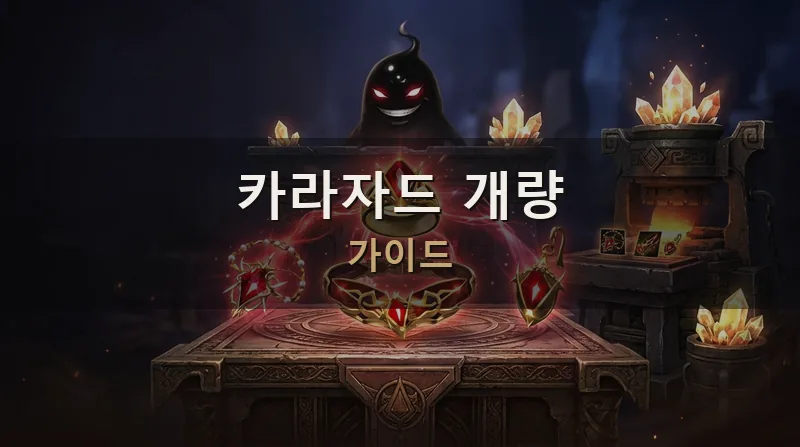
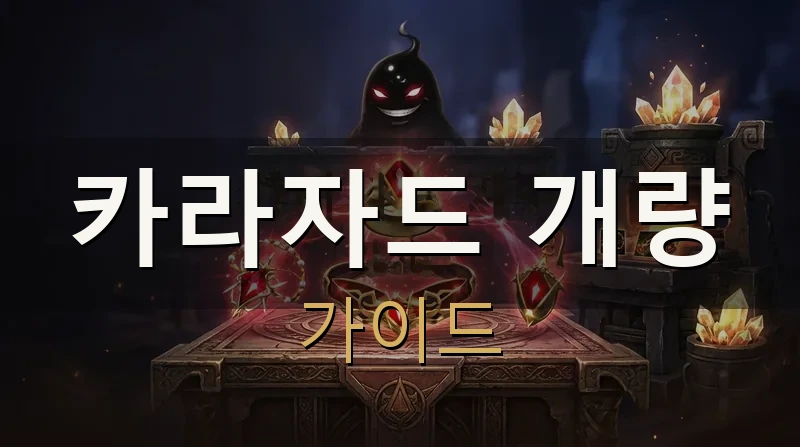
- 세 가이드 썸네일의 제목을 키워서 좌우 여백이 거의 같게 맞추고, 부제는 같은 비율로 키웠습니다.
| 이미지 | 제목 | 부제 | 제목 좌 / 우 여백 |
| --- | ---: | ---: | --- |
| 마가이아 신전 | 48 → 99 | 26 → 54 | 76 / 78 |
| 하이퍼 부스트 이후 | 46 → 72 | 26 → 41 | 73 / 72 |
| 카라자드 개량 가이드 | 51 → 105 | 34 → 70 | 73 / 71 |

부제는 제목보다 짧아서 가운데에 두고, 양쪽 여백이 서로 같게 맞췄습니다. 카라자드 이미지는 원래 글자를 지운 뒤 같은 자리에 다시 넣었습니다.

Changed region(s): [[0.0938, 0.3781, 0.9375, 0.6107], [0.375, 0.6689, 0.625, 0.8143]]

diff --git a/auto/script/generate-kharazad-reform-thumbnail.py b/auto/script/generate-kharazad-reform-thumbnail.py
@@ -1,0 +1,147 @@
+#!/usr/bin/env python3
+"""Redraw the Kharazad reform guide title so the line fills the card evenly."""
+
+from __future__ import annotations
+
+from pathlib import Path
+
+from PIL import Image, ImageDraw, ImageFont
+
+ROOT = Path(__file__).resolve().parents[2]
+SRC = Path(__file__).resolve().parent / "sources" / "kharazad-reform-guide-src.webp"
+OUT = ROOT / "assets" / "images" / "posts" / "kharazad-reform-guide.webp"
+SIDE = 64
+TITLE = "카라자드 개량"
+SUB = "가이드"
+# Previous overlay was about 51px title / 34px subtitle.
+SUB_RATIO = 34 / 51
+
+
+def font(size: int, bold: bool = False) -> ImageFont.ImageFont:
+    name = "malgunbd.ttf" if bold else "malgun.ttf"
+    path = Path("C:/Windows/Fonts") / name
+    if path.exists():
+        return ImageFont.truetype(str(path), size=size)
+    return ImageFont.load_default()
+
+
+def text_mask(src: Image.Image) -> Image.Image:
+    px = src.load()
+    w, h = src.size
+    mask = Image.new("L", src.size, 0)
+    mp = mask.load()
+    for y in range(155, 230):
+        for x in range(180, 640):
+            r, g, b = px[x, y]
+            if r > 200 and g > 185 and b > 165:
+                mp[x, y] = 255
+    for y in range(228, 280):
+        for x in range(330, 470):
+            r, g, b = px[x, y]
+            if r > 165 and g > 115 and b < 150 and r > b + 35:
+                mp[x, y] = 255
+    grown = Image.new("L", src.size, 0)
+    gp = grown.load()
+    for y in range(150, 290):
+        for x in range(170, 650):
+            if mp[x, y] == 0:
+                continue
+            for dy in range(-2, 3):
+                for dx in range(-2, 3):
+                    xx, yy = x + dx, y + dy
+                    if 0 <= xx < w and 0 <= yy < h:
+                        gp[xx, yy] = 255
+    return grown
+
+
+def inpaint(src: Image.Image, mask: Image.Image) -> Image.Image:
+    im = src.copy()
+    px = im.load()
+    mp = mask.load()
+    w, h = im.size
+    neighbors = ((1, 0), (-1, 0), (0, 1), (0, -1), (1, 1), (-1, 1), (1, -1), (-1, -1))
+    for _ in range(64):
+        border: list[tuple[int, int, list[tuple[int, int, int]]]] = []
+        for y in range(145, 295):
+            for x in range(165, 655):
+                if mp[x, y] == 0:
+                    continue
+                found = []
+                for dx, dy in neighbors:
+                    xx, yy = x + dx, y + dy
+                    if 0 <= xx < w and 0 <= yy < h and mp[xx, yy] == 0:
+                        found.append(px[xx, yy])
+                if found:
+                    border.append((x, y, found))
+        if not border:
+            break
+        for x, y, found in border:
+            n = len(found)
+            px[x, y] = (
+                sum(c[0] for c in found) // n,
+                sum(c[1] for c in found) // n,
+                sum(c[2] for c in found) // n,
+            )
+            mp[x, y] = 0
+    return im
+
+
+def ink(draw: ImageDraw.ImageDraw, text: str, face: ImageFont.ImageFont) -> tuple[int, int, int, int]:
+    box = draw.textbbox((0, 0), text, font=face)
+    return box[0], box[1], box[2] - box[0], box[3] - box[1]
+
+
+def fit(draw: ImageDraw.ImageDraw, width: int) -> tuple[ImageFont.ImageFont, ImageFont.ImageFont, int]:
+    max_w = width - 2 * SIDE
+    chosen = 36
+    for size in range(36, 160):
+        title_font = font(size, bold=True)
+        sub_font = font(max(18, round(size * SUB_RATIO)))
+        _, _, tw, th = ink(draw, TITLE, title_font)
+        _, _, sw, sh = ink(draw, SUB, sub_font)
+        gap = round(14 * size / 51)
+        if max(tw, sw) <= max_w and th + gap + sh <= 280:
+            chosen = size
+        else:
+            break
+    sub_size = max(18, round(chosen * SUB_RATIO))
+    return font(chosen, bold=True), font(sub_size), chosen
+
+
+def draw_line(
+    draw: ImageDraw.ImageDraw,
+    text: str,
+    face: ImageFont.ImageFont,
+    top: int,
+    fill: tuple[int, int, int, int],
+    width: int,
+) -> int:
+    ox, oy, tw, th = ink(draw, text, face)
+    x = (width - tw) // 2 - ox
+    y = top - oy
+    draw.text((x + 2, y + 3), text, font=face, fill=(0, 0, 0, 150))
+    draw.text((x, y), text, font=face, fill=fill)
+    return th
+
+
+def main() -> None:
+    src = Image.open(SRC).convert("RGB")
+    clean = inpaint(src, text_mask(src)).convert("RGBA")
+    draw = ImageDraw.Draw(clean)
+    width, height = clean.size
+    title_font, sub_font, size = fit(draw, width)
+    gap = round(14 * size / 51)
+    _, _, _, th = ink(draw, TITLE, title_font)
+    _, _, _, sh = ink(draw, SUB, sub_font)
+    # Keep the pair over the altar, where the old title sat.
+    top = 168
+    if top + th + gap + sh > height - 40:
+        top = height - 40 - (th + gap + sh)
+    draw_line(draw, TITLE, title_font, top, (248, 246, 240, 255), width)
+    draw_line(draw, SUB, sub_font, top + th + gap, (212, 176, 96, 255), width)
+    clean.convert("RGB").save(OUT, format="WEBP", quality=92, method=6)
+    print("Wrote", OUT, "title", size, "sub", max(18, round(size * SUB_RATIO)))
+
+
+if __name__ == "__main__":
+    main()

diff --git a/auto/script/generate-magaia-temple-thumbnail.py b/auto/script/generate-magaia-temple-thumbnail.py
@@ -3,38 +3,18 @@
 
 from __future__ import annotations
 
-import io
-import re
-import urllib.request
 from pathlib import Path
 
 from PIL import Image, ImageDraw, ImageFont
 
 ROOT = Path(__file__).resolve().parents[2]
 OUT_PATH = ROOT / "assets" / "images" / "posts" / "magaia-temple-prep-guide.webp"
-CODEX = "https://bdocodex.com"
-WIDTH, HEIGHT, PADDING = 760, 430, 72
-
-
-def fetch(url: str) -> bytes:
-    req = urllib.request.Request(url, headers={"User-Agent": "Mozilla/5.0"})
-    return urllib.request.urlopen(req, timeout=30).read()
-
-
-def find_icon() -> Image.Image | None:
-    html = fetch(f"{CODEX}/kr/search/?q=%EC%97%98%EB%A6%AC%EC%96%B8+%EC%B6%94%EC%A2%85%EC%9E%90%EC%9D%98+%ED%88%AC%EA%B5%AC").decode(
-        "utf-8", "ignore"
-    )
-    item = re.search(r"/kr/item/(\d+)/", html)
-    if not item:
-        return None
-    page = fetch(f"{CODEX}/kr/item/{item.group(1)}/").decode("utf-8", "ignore")
-    match = re.search(r"(?:https://bdocodex\.com/)?(items/new_icon/[^\"']+\.(?:webp|png))", page)
-    if not match:
-        return None
-    path = match.group(1)
-    url = path if path.startswith("http") else f"{CODEX}/{path}"
-    return Image.open(io.BytesIO(fetch(url))).convert("RGBA")
+WIDTH, HEIGHT = 760, 430
+# Title grows until its ink sits this far from both edges.
+SIDE = 64
+TITLE = "마가이아 신전"
+SUB = "공방 410 / 490 · 준비"
+SUB_RATIO = 26 / 48
 
 
 def load_font(size: int, bold: bool = False) -> ImageFont.ImageFont:
@@ -44,6 +24,46 @@ def load_font(size: int, bold: bool = False) -> ImageFont.ImageFont:
         if path.exists():
             return ImageFont.truetype(str(path), size=size)
     return ImageFont.load_default()
+
+
+def ink(draw: ImageDraw.ImageDraw, text: str, font: ImageFont.ImageFont) -> tuple[int, int, int, int]:
+    box = draw.textbbox((0, 0), text, font=font)
+    return box[0], box[1], box[2] - box[0], box[3] - box[1]
+
+
+def fit_title(draw: ImageDraw.ImageDraw) -> tuple[ImageFont.ImageFont, ImageFont.ImageFont, int]:
+    max_w = WIDTH - 2 * SIDE
+    chosen = 28
+    for size in range(28, 160):
+        title_font = load_font(size, bold=True)
+        sub_font = load_font(max(18, round(size * SUB_RATIO)))
+        _, _, tw, th = ink(draw, TITLE, title_font)
+        _, _, sw, sh = ink(draw, SUB, sub_font)
+        gap = round(18 * size / 48)
+        if max(tw, sw) <= max_w and th + gap + sh <= HEIGHT - 96:
+            chosen = size
+        else:
+            break
+    return load_font(chosen, bold=True), load_font(max(18, round(chosen * SUB_RATIO))), chosen
+
+
+def draw_line(draw: ImageDraw.ImageDraw, text: str, font: ImageFont.ImageFont, top: int, fill: tuple[int, int, int, int]) -> int:
+    ox, oy, tw, th = ink(draw, text, font)
+    x = (WIDTH - tw) // 2 - ox
+    draw.text((x, top - oy), text, font=font, fill=fill)
+    return th
+
+
+def draw_pair(canvas: Image.Image) -> None:
+    draw = ImageDraw.Draw(canvas)
+    title_font, sub_font, size = fit_title(draw)
+    gap = round(18 * size / 48)
+    _, _, _, th = ink(draw, TITLE, title_font)
+    _, _, _, sh = ink(draw, SUB, sub_font)
+    top = (HEIGHT - (th + gap + sh)) // 2
+    draw_line(draw, TITLE, title_font, top, (248, 246, 240, 255))
+    draw_line(draw, SUB, sub_font, top + th + gap, (220, 196, 120, 255))
+    print("title", size, "sub", max(18, round(size * SUB_RATIO)))
 
 
 def main() -> None:
@@ -62,30 +82,9 @@ def main() -> None:
     od.ellipse((WIDTH - 400, -120, WIDTH + 60, 320), fill=(180, 150, 70, 40))
     od.ellipse((-160, HEIGHT - 240, 260, HEIGHT + 80), fill=(40, 70, 120, 46))
     canvas = Image.alpha_composite(canvas, overlay)
-
-    try:
-        icon = find_icon()
-    except Exception as exc:
-        print("icon skipped", exc)
-        icon = None
-    if icon is not None:
-        size = 188
-        icon = icon.resize((size, size), Image.Resampling.LANCZOS)
-        x = WIDTH - PADDING - size
-        y = (HEIGHT - size) // 2
-        glow = Image.new("RGBA", (size + 48, size + 48), (0, 0, 0, 0))
-        ImageDraw.Draw(glow).ellipse((0, 0, size + 48, size + 48), fill=(220, 190, 90, 50))
-        canvas.alpha_composite(glow, (x - 24, y - 24))
-        canvas.alpha_composite(icon, (x, y))
-
-    d = ImageDraw.Draw(canvas)
-    title = load_font(48, bold=True)
-    sub = load_font(26)
-    d.text((PADDING, PADDING + 48), "마가이아 신전", font=title, fill=(248, 246, 240, 255))
-    bbox = d.textbbox((PADDING, PADDING + 48), "마가이아 신전", font=title)
-    d.text((PADDING, bbox[3] + 18), "공방 410 / 490 · 준비", font=sub, fill=(220, 196, 120, 255))
+    draw_pair(canvas)
     canvas.convert("RGB").save(OUT_PATH, format="WEBP", quality=92, method=6)
-    print("Wrote", OUT_PATH, "icon", icon is not None)
+    print("Wrote", OUT_PATH)
 
 
 if __name__ == "__main__":

diff --git a/auto/script/generate-post-hyper-boost-spec-thumbnail.py b/auto/script/generate-post-hyper-boost-spec-thumbnail.py
@@ -7,7 +7,11 @@ from PIL import Image, ImageDraw, ImageFont
 
 ROOT = Path(__file__).resolve().parents[2]
 OUT = ROOT / "assets" / "images" / "posts" / "post-hyper-boost-spec-guide.webp"
-W, H, PAD = 760, 430, 72
+W, H = 760, 430
+SIDE = 64
+TITLE = "하이퍼 부스트 이후"
+SUB = "강화비 · 거래소 비교"
+SUB_RATIO = 26 / 46
 
 
 def font(size: int, bold: bool = False) -> ImageFont.ImageFont:
@@ -17,6 +21,46 @@ def font(size: int, bold: bool = False) -> ImageFont.ImageFont:
         if path.exists():
             return ImageFont.truetype(str(path), size=size)
     return ImageFont.load_default()
+
+
+def ink(draw: ImageDraw.ImageDraw, text: str, face: ImageFont.ImageFont) -> tuple[int, int, int, int]:
+    box = draw.textbbox((0, 0), text, font=face)
+    return box[0], box[1], box[2] - box[0], box[3] - box[1]
+
+
+def fit_title(draw: ImageDraw.ImageDraw) -> tuple[ImageFont.ImageFont, ImageFont.ImageFont, int]:
+    max_w = W - 2 * SIDE
+    chosen = 28
+    for size in range(28, 160):
+        title_font = font(size, bold=True)
+        sub_font = font(max(18, round(size * SUB_RATIO)))
+        _, _, tw, th = ink(draw, TITLE, title_font)
+        _, _, sw, sh = ink(draw, SUB, sub_font)
+        gap = round(16 * size / 46)
+        if max(tw, sw) <= max_w and th + gap + sh <= H - 96:
+            chosen = size
+        else:
+            break
+    return font(chosen, bold=True), font(max(18, round(chosen * SUB_RATIO))), chosen
+
+
+def draw_line(draw: ImageDraw.ImageDraw, text: str, face: ImageFont.ImageFont, top: int, fill: tuple[int, int, int, int]) -> int:
+    ox, oy, tw, th = ink(draw, text, face)
+    x = (W - tw) // 2 - ox
+    draw.text((x, top - oy), text, font=face, fill=fill)
+    return th
+
+
+def draw_pair(canvas: Image.Image) -> None:
+    draw = ImageDraw.Draw(canvas)
+    title_font, sub_font, size = fit_title(draw)
+    gap = round(16 * size / 46)
+    _, _, _, th = ink(draw, TITLE, title_font)
+    _, _, _, sh = ink(draw, SUB, sub_font)
+    top = (H - (th + gap + sh)) // 2
+    draw_line(draw, TITLE, title_font, top, (248, 246, 240, 255))
+    draw_line(draw, SUB, sub_font, top + th + gap, (196, 214, 196, 255))
+    print("title", size, "sub", max(18, round(size * SUB_RATIO)))
 
 
 def main() -> None:
@@ -32,12 +76,7 @@ def main() -> None:
     od.ellipse((W - 380, -80, W + 40, 300), fill=(90, 140, 170, 42))
     od.ellipse((-140, H - 220, 280, H + 60), fill=(160, 120, 60, 36))
     canvas = Image.alpha_composite(canvas, overlay)
-    d = ImageDraw.Draw(canvas)
-    title = font(46, bold=True)
-    sub = font(26)
-    d.text((PAD, PAD + 56), "하이퍼 부스트 이후", font=title, fill=(248, 246, 240, 255))
-    bbox = d.textbbox((PAD, PAD + 56), "하이퍼 부스트 이후", font=title)
-    d.text((PAD, bbox[3] + 16), "강화비 · 거래소 비교", font=sub, fill=(196, 214, 196, 255))
+    draw_pair(canvas)
     canvas.convert("RGB").save(OUT, format="WEBP", quality=92, method=6)
     print(OUT)
 
